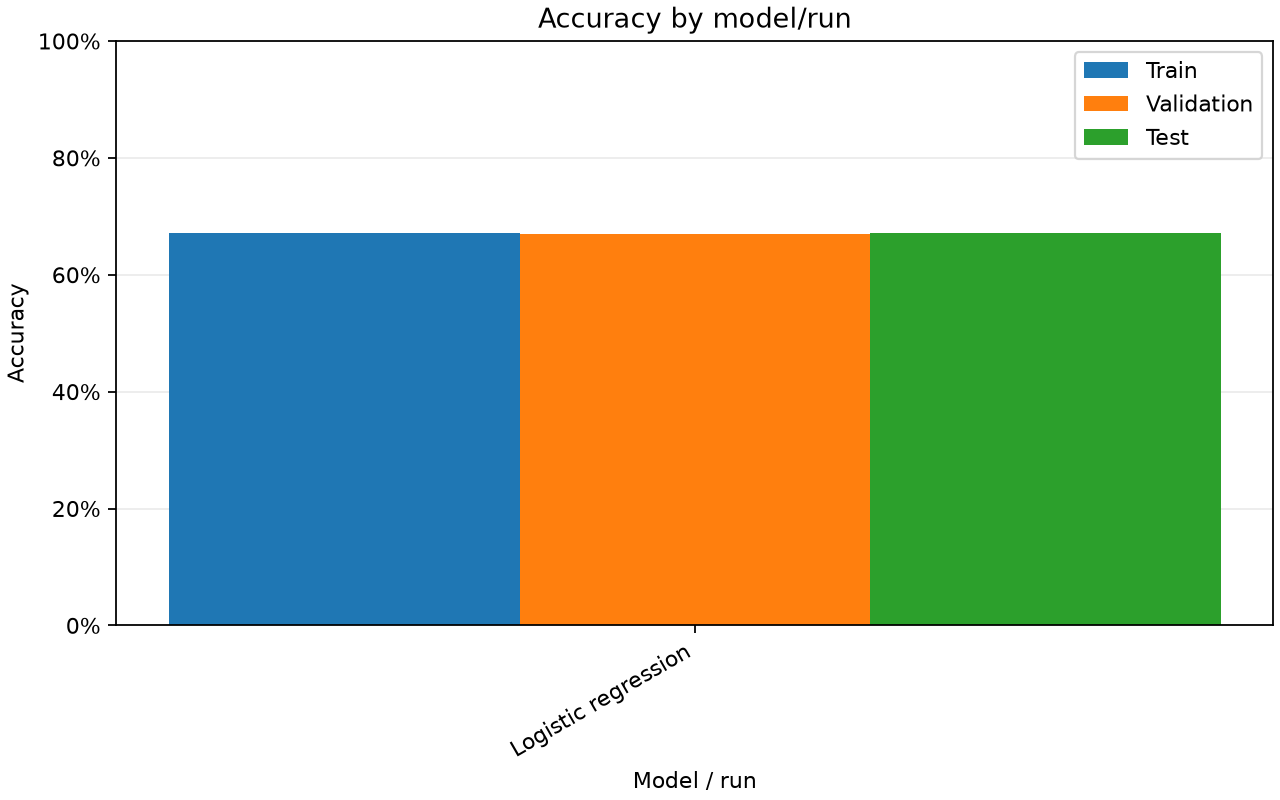
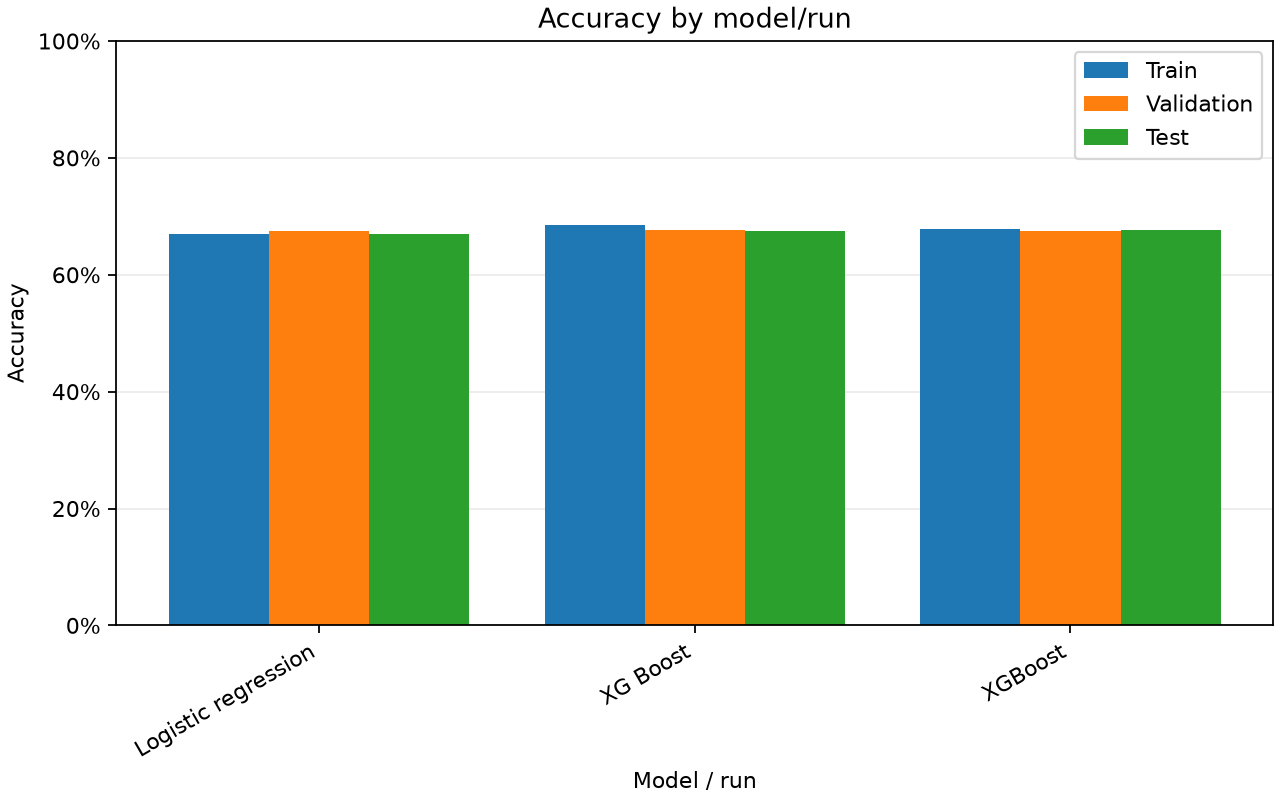
feat: created xgboost model

diff --git a/src/chess_game_outcome_predictor/train_xgboost.py b/src/chess_game_outcome_predictor/train_xgboost.py
@@ -1,0 +1,88 @@
+from sklearn.metrics import accuracy_score, log_loss
+from sklearn.model_selection import ParameterGrid
+from xgboost import XGBClassifier
+
+from chess_game_outcome_predictor.experiment_tracking import track_run
+from chess_game_outcome_predictor.training.data import load_training_data
+from utils.build_dataset import build_dataset
+
+PARAM_GRID = {
+  "max_depth": [3, 5, 7],
+  "learning_rate": [0.03, 0.1, 0.2],
+}
+
+
+def tune_model(train_X, train_Y, validation_X, validation_Y):
+  best_model = None
+  best_params = None
+  best_loss = float("inf")
+
+  for params in ParameterGrid(PARAM_GRID):
+    candidate = XGBClassifier(
+      objective="multi:softprob",
+      num_class=3,
+      n_estimators=500,
+      early_stopping_rounds=30,
+      random_state=42,
+      **params,
+    )
+    candidate.fit(
+      train_X,
+      train_Y,
+      eval_set=[(validation_X, validation_Y)],
+      verbose=False,
+    )
+    validation_loss = log_loss(
+      validation_Y,
+      candidate.predict_proba(validation_X),
+      labels=candidate.classes_,
+    )
+    print(f"{params}: validation log loss = {validation_loss:.5f}")
+
+    if validation_loss < best_loss:
+      best_model = candidate
+      best_params = params
+      best_loss = validation_loss
+
+  print("Best hyperparameters:", best_params)
+  print("Best boosting rounds:", best_model.best_iteration + 1)
+  return best_model
+
+
+if __name__ == "__main__":
+  build_dataset(max_games=100000)
+  train_X, train_Y, validation_X, validation_Y, test_X, test_Y = load_training_data()
+
+  model = tune_model(train_X, train_Y, validation_X, validation_Y)
+
+  train_predictions = model.predict(train_X)
+  validation_predictions = model.predict(validation_X)
+  test_predictions = model.predict(test_X)
+
+  train_accuracy = accuracy_score(train_Y, train_predictions)
+  validation_accuracy = accuracy_score(validation_Y, validation_predictions)
+  test_accuracy = accuracy_score(test_Y, test_predictions)
+
+  validation_log_loss = log_loss(
+    validation_Y,
+    model.predict_proba(validation_X),
+    labels=model.classes_,
+  )
+  test_log_loss = log_loss(
+    test_Y, model.predict_proba(test_X), labels=model.classes_
+  )
+
+  print("Train accuracy:", train_accuracy)
+  print("Validation accuracy:", validation_accuracy)
+  print("Test accuracy:", test_accuracy)
+  print("Validation log loss:", validation_log_loss)
+  print("Test log loss:", test_log_loss)
+
+  track_run(
+    "XGBoost",
+    train_accuracy,
+    validation_accuracy,
+    test_accuracy,
+    validation_log_loss,
+    test_log_loss,
+  )

diff --git a/src/chess_game_outcome_predictor/training/data.py b/src/chess_game_outcome_predictor/training/data.py
@@ -46,6 +46,7 @@ def load_training_data(path="data/processed/game_data.csv"):
   df[ColumnKeys.RESULT] = df[ColumnKeys.RESULT].replace("1-0", "0")
   df[ColumnKeys.RESULT] = df[ColumnKeys.RESULT].replace("0-1", "1")
   df[ColumnKeys.RESULT] = df[ColumnKeys.RESULT].replace("1/2-1/2", "2")
+  df[ColumnKeys.RESULT] = df[ColumnKeys.RESULT].astype(int)
 
   df[ColumnKeys.ELO_DIFF] = df[ColumnKeys.WHITE_ELO] - df[ColumnKeys.BLACK_ELO]
   df[ColumnKeys.ELO_DIFF] = df[ColumnKeys.ELO_DIFF].astype(int)

diff --git a/src/chess_game_outcome_predictor/train_logistic.py b/src/chess_game_outcome_predictor/train_logistic.py
@@ -7,8 +7,6 @@ from chess_game_outcome_predictor.experiment_tracking import track_run
 from chess_game_outcome_predictor.training.data import load_training_data
 from utils.build_dataset import build_dataset
 
-ELO_DIFF_CUTOFF = 100
-
 if __name__ == "__main__":
   build_dataset(max_games=100000)
   train_X, train_Y, validation_X, validation_Y, test_X, test_Y = load_training_data()
